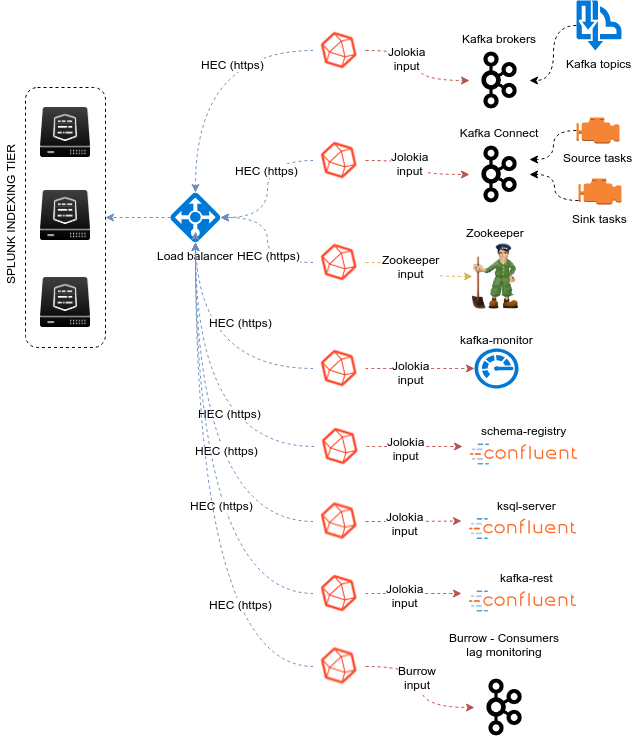
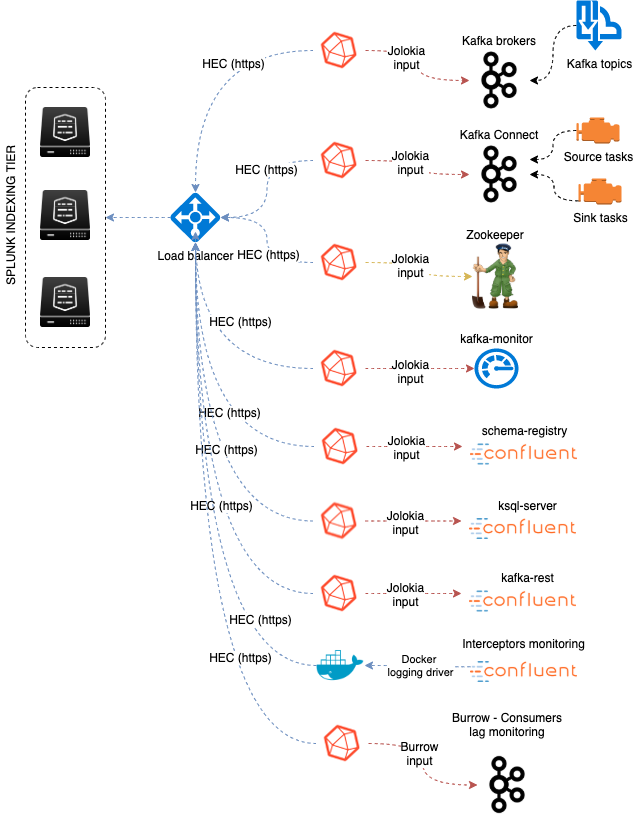
review in progress

diff --git a/docs/conf.py b/docs/conf.py
@@ -54,7 +54,7 @@ author = u'Guilhem Marchand'
 # built documents.
 #
 # The short X.Y version.
-version = u'1.0'
+version = u'1.1'
 # The full version, including alpha/beta/rc tags.
 release = u'1'
 
@@ -131,6 +131,7 @@ html_theme_path = [sphinx_rtd_theme.get_html_theme_path()]
 # The name of an image file (relative to this directory) to place at the top
 # of the sidebar.
 #html_logo = None
+html_logo = "img/logo.png"
 
 # The name of an image file (relative to this directory) to use as a favicon of
 # the docs.  This file should be a Windows icon file (.ico) being 16x16 or 32x32

diff --git a/docs/chapter2_metrics.rst b/docs/chapter2_metrics.rst
@@ -229,6 +229,7 @@ Jolokia JVM monitoring
 
 **The following Kafka components require Jolokia to be deployed and started, as the modern and efficient interface to JMX that is collected by Telegraf:**
 
+* Apache Zookeeper
 * Apache Kafka Brokers
 * Apache Kafka Connect
 * Confluent schema-registry
@@ -255,6 +256,50 @@ Starting Jolokia with the JVM
 *Note: This method is the method used in the docker example within this documentation by using the environment variables of the container.*
 
 **When running on dedicated servers or virtual machines, update the relevant systemd configuration file to start Jolokia automatically:**
+
+For Zookeeper
+"""""""""""""
+
+**For bare-metals and dedicated VMs:**
+
+- Edit: ``/lib/systemd/system/confluent-zookeeper.service``
+
+- Add ``-javaagent`` argument:
+
+::
+
+  [Unit]
+  Description=Apache Kafka - ZooKeeper
+  Documentation=http://docs.confluent.io/
+  After=network.target
+
+  [Service]
+  Type=simple
+  User=cp-kafka
+  Group=confluent
+  ExecStart=/usr/bin/zookeeper-server-start /etc/kafka/zookeeper.properties
+  Environment="KAFKA_OPTS=-javaagent:/opt/jolokia/jolokia.jar=port=8778,host=0.0.0.0"
+  Environment="LOG_DIR=/var/log/zookeeper"
+  TimeoutStopSec=180
+  Restart=no
+
+  [Install]
+  WantedBy=multi-user.target
+
+- Reload systemd and restart:
+
+::
+
+    sudo systemctl daemon-restart
+    sudo systemctl restart confluent-zookeeper
+
+**For container based environments:**
+
+*Define the following environment variable when starting the containers:*
+
+::
+
+    KAFKA_OPTS: "-javaagent:/opt/jolokia/jolokia.jar=port=8778,host=0.0.0.0"
 
 For Kafka brokers
 """""""""""""""""
@@ -508,17 +553,17 @@ The Zookeeper monitoring is very simple and achieved by Telegraf and the Zookeep
 
 ::
 
-    # zookeeper metrics
-    [[inputs.zookeeper]]
-      servers = ["zookeeper-1:12181","zookeeper-2:22181","zookeeper-3:32181"]
+  name_prefix = "zk_"
+  urls = ["http://zookeeper-1:8778/jolokia","http://zookeeper-2:8778/jolokia","http://zookeeper-3:8778/jolokia"]
 
 **If each server runs an instance of Zookeeper and you deploy Telegraf, you can simply collect from the localhost:**
 
 ::
 
-    # zookeeper metrics
-    [[inputs.zookeeper]]
-      servers = ["$HOSTNAME:2181"]
+  # Zookeeper JVM monitoring
+  [[inputs.jolokia2_agent]]
+    name_prefix = "zk_"
+    urls = ["http://$HOSTNAME:8778/jolokia"]
 
 Full telegraf.conf example
 ^^^^^^^^^^^^^^^^^^^^^^^^^^
@@ -552,15 +597,32 @@ Full telegraf.conf example
          Authorization = "Splunk 205d43f1-2a31-4e60-a8b3-327eda49944a"
          X-Splunk-Request-Channel = "205d43f1-2a31-4e60-a8b3-327eda49944a"
 
-   # zookeeper metrics
-   [[inputs.zookeeper]]
-     servers = ["zookeeper-1:12181","zookeeper-2:22181","zookeeper-3:32181"]
+    # Zookeeper JMX collection
+
+    [[inputs.jolokia2_agent]]
+      name_prefix = "zk_"
+      urls = ["http://zookeeper-1:8778/jolokia","http://zookeeper-2:8778/jolokia","http://zookeeper-3:8778/jolokia"]
+
+    [[inputs.jolokia2_agent.metric]]
+      name  = "quorum"
+      mbean = "org.apache.ZooKeeperService:name0=*"
+      tag_keys = ["name0"]
+
+    [[inputs.jolokia2_agent.metric]]
+      name = "leader"
+      mbean = "org.apache.ZooKeeperService:name0=*,name1=*,name2=Leader"
+      tag_keys = ["name1"]
+
+    [[inputs.jolokia2_agent.metric]]
+      name = "follower"
+      mbean = "org.apache.ZooKeeperService:name0=*,name1=*,name2=Follower"
+      tag_keys = ["name1"]
 
 **Using mcatalog search command to verify data availability:**
 
 ::
 
-    | mcatalog values(metric_name) values(_dims) where index=* metric_name=zookeeper.*
+    | mcatalog values(metric_name) values(_dims) where index=* metric_name=zk_*
 
 Kafka brokers monitoring with Jolokia
 -------------------------------------

diff --git a/docs/kafka_on_k8s.rst b/docs/kafka_on_k8s.rst
@@ -200,6 +200,14 @@ Testing with minikube
 
 The templates provided are built on the naming convention of a helm installion called "confluent-oss" in a name space called "kafka":
 
+*helm3 command:*
+
+::
+
+    helm install confluent-oss confluentinc/cp-helm-charts
+
+The following command is valid for helm2 only, and left for historical purposes
+
 ::
 
     helm install cp-helm-charts --name confluent-oss --namespace kafka
@@ -212,92 +220,3 @@ The templates provided are built on the naming convention of a helm installion c
 - Confluent Schema registry in a Deployment
 - Confluent ksql-server in a Deployment
 - Confluent kafka-rest in a Deployment
-
-Yolean kubernetes-kafka
-***********************
-
-**The Kubernetes templates from Yolean has a very high quality content to spin up Zookeeper and Kafka in Kubernetes:**
-
-* https://github.com/Yolean/kubernetes-kafka
-
-These configuration samples can be used to deploy a Zookeeper cluster and Kafka cluster in Kube as a statefulSet. (which Confluent does as well)
-
-The provided sample yaml for Kubernetes can be used minor modifications related to the names of the statefulSet deployments.
-
-Testing with minikube
-=====================
-
-**Clone the repository:**
-
-::
-
-    git clone https://github.com/Yolean/kubernetes-kafka.git
-    cd kubernetes-kafka
-
-**Make sure you start minikube with enough memory and cpu resources, example:**
-
-::
-
-    minikube start --memory 8096 --cpus 4
-
-**Proceed to the following operations to spin up Zookeeper and Kafka:**
-
-*Create the kafka namespace:*
-
-::
-
-    kubectl create -f 00-namespace.yml
-
-*Configure RBAC:*
-
-::
-
-    kubectl create -f rbac-namespace-default/node-reader.yml
-    kubectl create -f rbac-namespace-default/pod-labler.yml
-
-*Configure the storageClasses for minikube:*
-
-::
-
-    kubectl create -f configure/minikube-storageclasses.yml
-
-*Spin-up the Zookeeper statefulSet deployments:*
-
-::
-
-    kubectl create -f zookeeper/10zookeeper-config.yml
-    kubectl create -f zookeeper/20pzoo-service.yml
-    kubectl create -f zookeeper/21zoo-service.yml
-    kubectl create -f zookeeper/30service.yml
-    kubectl create -f zookeeper/50pzoo.yml
-    kubectl create -f zookeeper/51zoo.yml
-
-*Wait for a few minutes to get the statefulSet up and running, you can use the following commands to verify the status:*
-
-::
-
-    kubectl -n kafka get pods
-    kubectl -n kafka get statefulsets.apps
-    kubectl -n kafka describe statefulsets.apps zoo
-    kubectl -n kafka describe statefulsets.apps pzoo
-    kubectl -n kafka logs pzoo-0 -c zookeeper
-    kubectl -n kafka logs zoo-0 -c zookeeper
-
-*Spin-up the Kafka statefulSet deployment:*
-
-::
-
-    kubectl create -f kafka/10broker-config.yml
-    kubectl create -f kafka/20dns.yml
-    kubectl create -f kafka/30bootstrap-service.yml
-    kubectl create -f kafka/50kafka.yml
-
-*Wait for a few minutes to get the statefulSet up and running, you can use the following commands to verify the status:*
-
-::
-
-    kubectl -n kafka get pods
-    kubectl -n kafka get statefulsets.apps
-    kubectl -n kafka describe statefulsets.apps kafka
-    kubectl -n kafka logs kafka-0 -c init-config
-    kubectl -n kafka logs kafka-0 -c broker

diff --git a/docs/chapter1_events.rst b/docs/chapter1_events.rst
@@ -115,6 +115,7 @@ By default, Confluent may use the same logging location for both Zookeeper and K
 
 ::
 
+    sudo systemctl daemon-reload
     sudo systemctl status confluent-zookeeper
 
 Kafka brokers
@@ -193,7 +194,17 @@ To change this behaviour, you need to edit the log4j configuration:
 
 ::
 
+    sudo systemctl daemon-reload
     sudo systemctl restart confluent-kafka-connect
+
+schema-registry
+---------------
+
+**By default, the Confluent platform generates Schema registry log in the following location:**
+
+::
+
+    /var/log/confluent/schema-registry
 
 ksql-server
 -----------
@@ -204,7 +215,7 @@ Notes: By default, the systemd already defines the log directory location, which
 
 **Verifying the systemd service file for ksql:**
 
-- Edit: */lib/systemd/system/confluent-ksql.service*
+- Edit: */lib/systemd/system/confluent-ksqldb.service*
 
 - Verify the logs location with the LOG_DIR environment variable
 
@@ -220,7 +231,7 @@ Notes: By default, the systemd already defines the log directory location, which
     User=cp-ksql
     Group=confluent
     Environment="LOG_DIR=/var/log/confluent/ksql"
-    ExecStart=/usr/bin/ksql-server-start /etc/ksql/ksql-server.properties
+    ExecStart=/usr/bin/ksql-server-start /etc/ksqldb/ksql-server.properties
     TimeoutStopSec=180
     Restart=no
 
@@ -236,7 +247,7 @@ Notes: By default, the systemd already defines the log directory location, which
 
 **Configuring log4j:**
 
-- Edit: */etc/ksql/log4j.properties*
+- Edit: */etc/ksqldb/log4j.properties*
 
 - Add a file appender:
 

diff --git a/docs/index.rst b/docs/index.rst
@@ -53,10 +53,37 @@ Implementation:
 
 .. toctree::
    :maxdepth: 2
+   :caption: Requirements
 
    pre-requisites
-   kafka_on_k8s
-   chapter1_events
-   chapter2_metrics
-   chapter3_alerting
 
+.. toctree::
+   :maxdepth: 2
+   :caption: Running on containers
+
+   kafka_on_k8s
+   kafka_on_docker
+
+.. toctree::
+   :maxdepth: 2
+   :caption: Running on premise
+
+   kafka_on_prem
+
+.. toctree::
+   :maxdepth: 2
+   :caption: Events logging
+
+   chapter1_events
+
+.. toctree::
+   :maxdepth: 2
+   :caption: Metrics
+
+   chapter2_metrics
+
+.. toctree::
+   :maxdepth: 2
+   :caption: Monitoring and alerting
+
+   chapter3_alerting

diff --git a/docs/kafka_on_docker.rst b/docs/kafka_on_docker.rst
@@ -1,0 +1,12 @@
+Running Kafka in Docker
+#######################
+
+**Out of Kubernetes, you may as well simply run a Kafka infrastructure on Docker, see the following links for examples and configuration samples:**
+
+- https://docs.confluent.io/current/installation/docker/installation/index.html#cpdocker-intro
+
+- https://github.com/confluentinc/cp-all-in-one/blob/latest/cp-all-in-one/docker-compose.yml
+
+- https://github.com/guilhemmarchand/kafka-docker-splunk
+
+This covers events logging and metric collections when running Kafka on containers.

diff --git a/docs/kafka_on_prem.rst b/docs/kafka_on_prem.rst
@@ -1,0 +1,10 @@
+Running Kafka on premise
+########################
+
+**You can run your Kafka infrastructure on a traditional deployment with dedicated bare metal servers or VMs, on premise infrastruture and private Cloud, see the following links:**
+
+- https://kafka.apache.org/quickstart
+
+- https://docs.confluent.io/current/installation/installing_cp/index.html
+
+This guide covers events logging and metric collection when running on Kubernetes.
